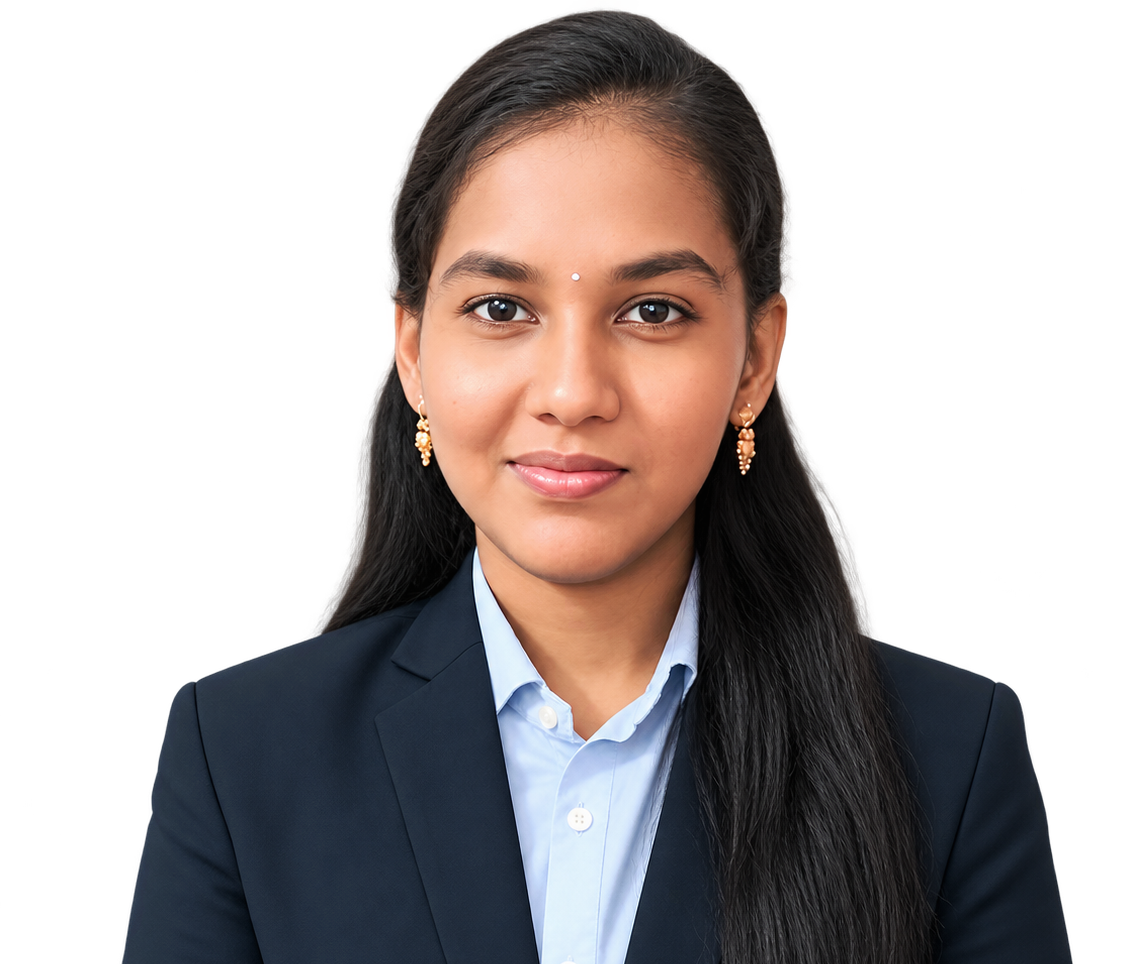
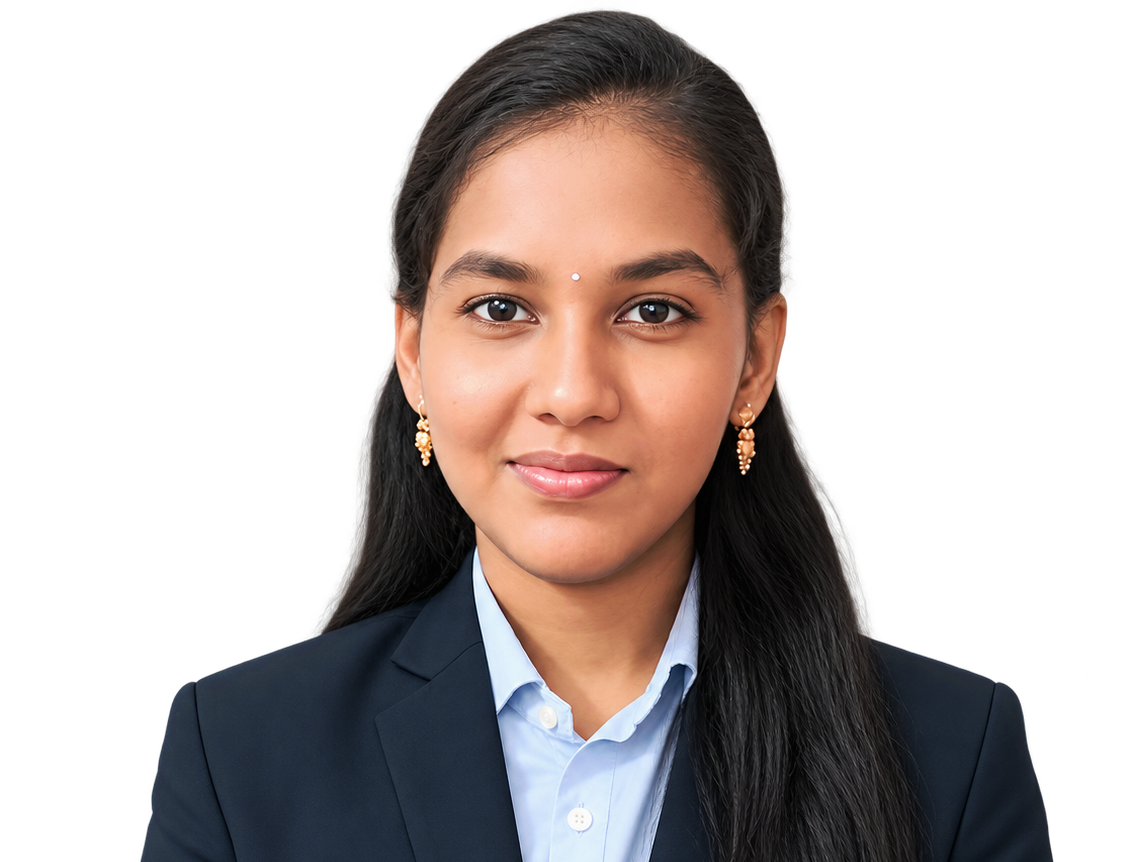
Mobile View Style Changes

Changed region(s): [[0.0927, 0.0, 0.9576, 1.0], [0.1853, 0.8445, 0.2471, 1.0]]

diff --git a/style.css b/style.css
@@ -331,7 +331,7 @@ a {
         top: 10px;
         left: 30%;
         width: 200px;
-        height: 190px;
+        height: 170px;
         border: none;
         border-radius: 50%;
         display: flex;
